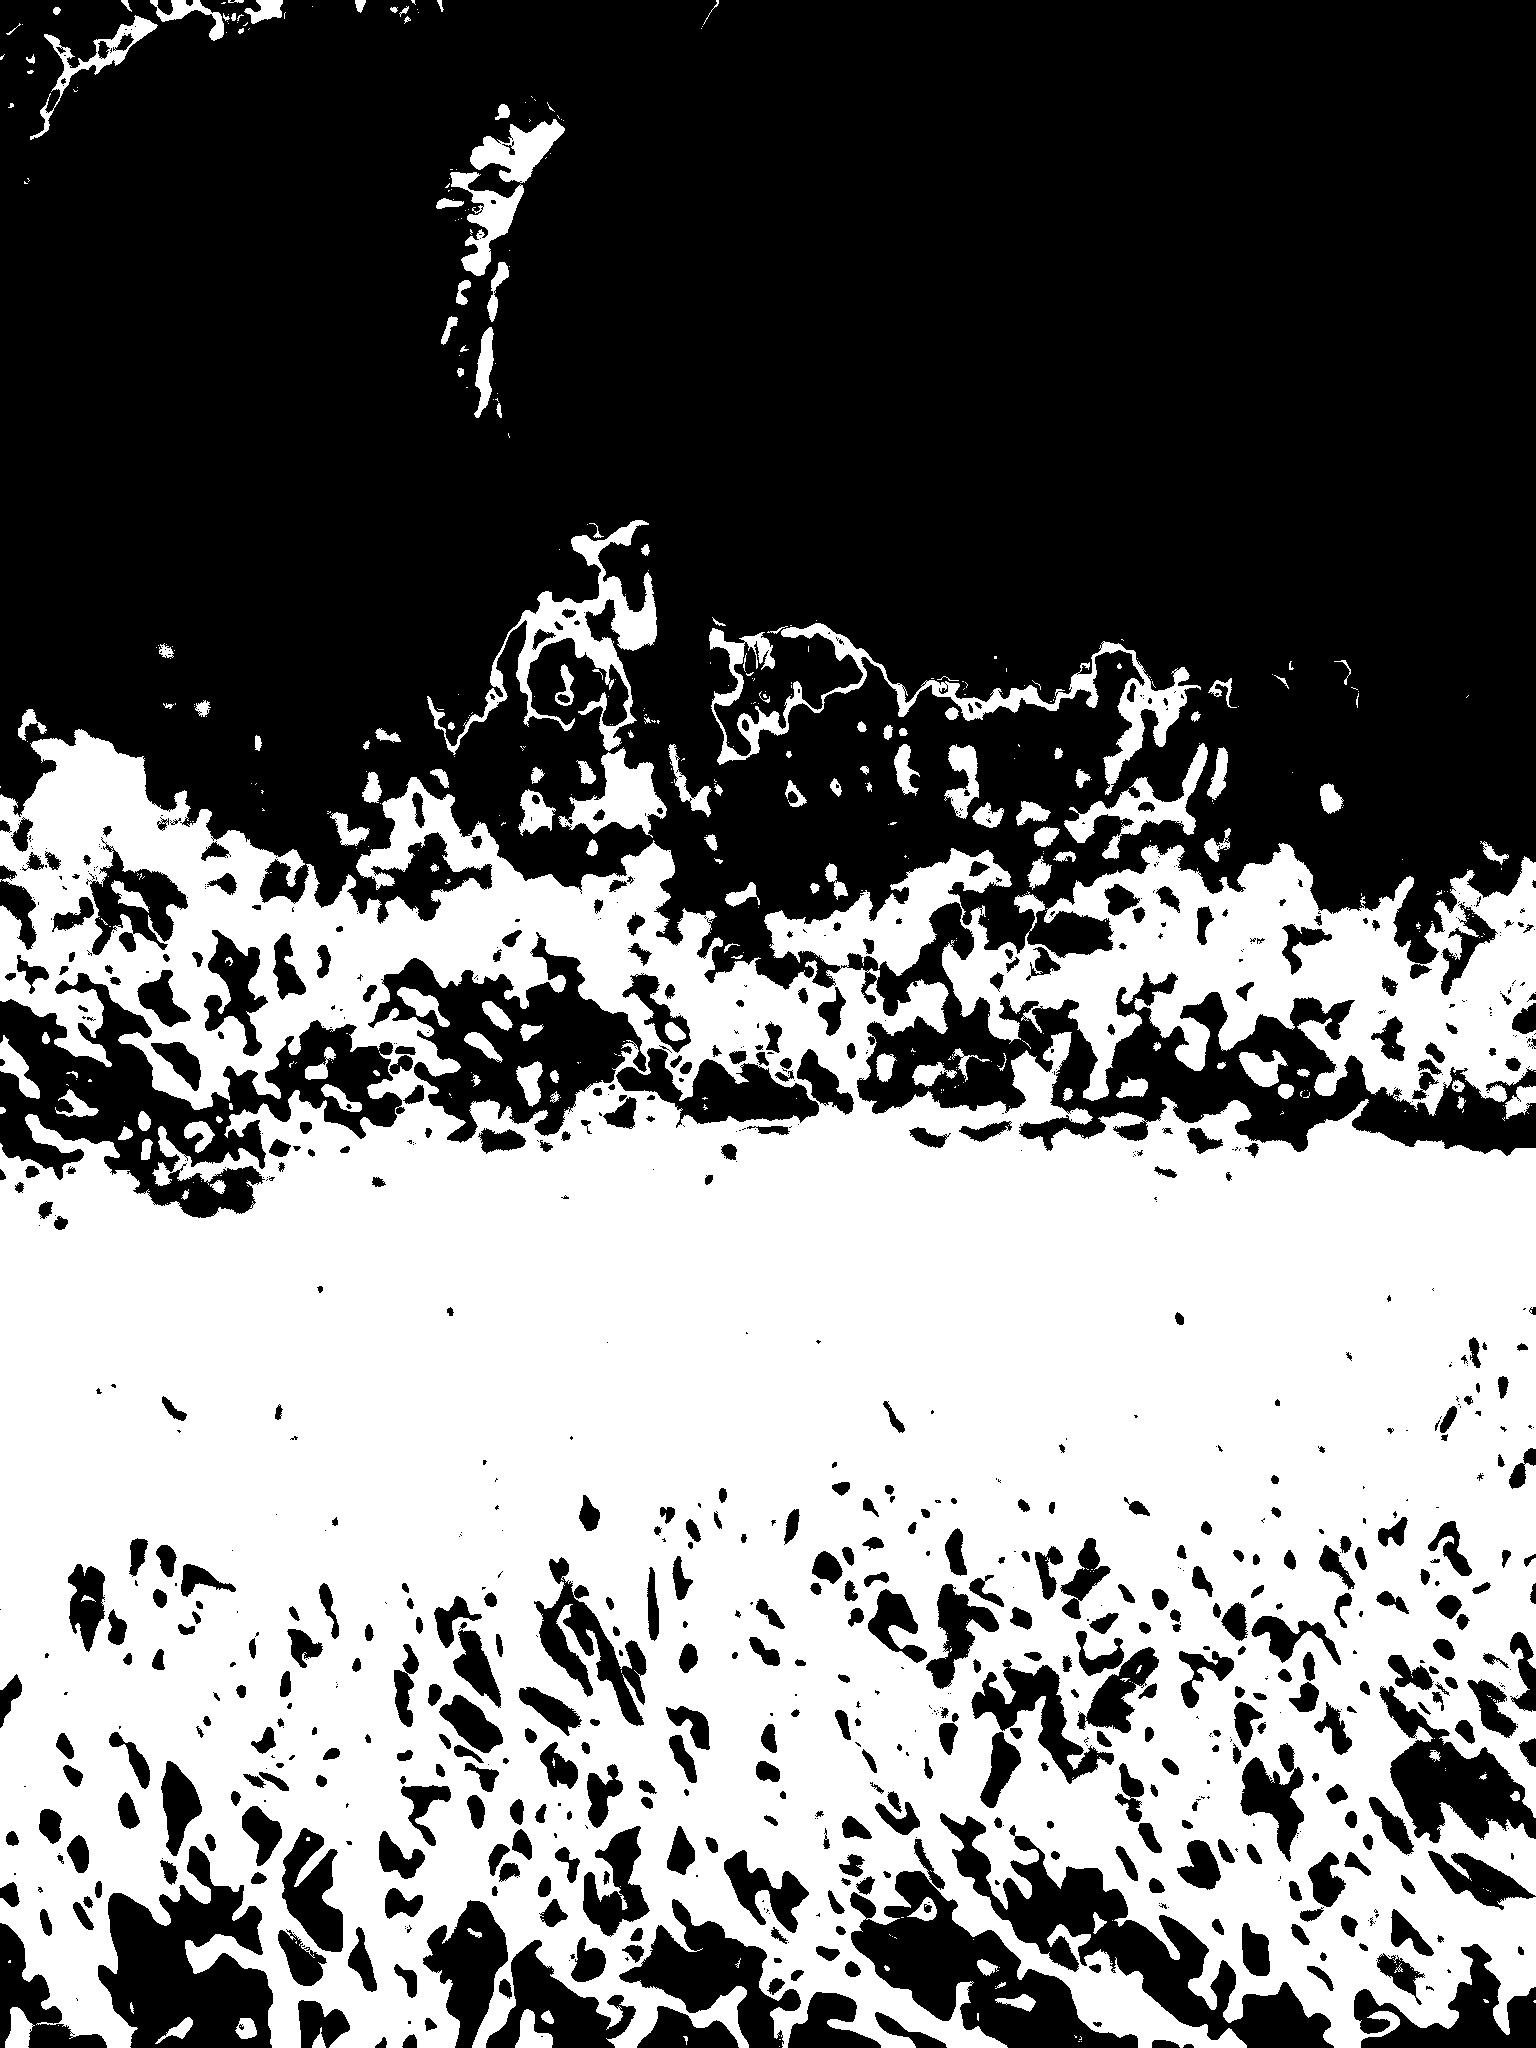
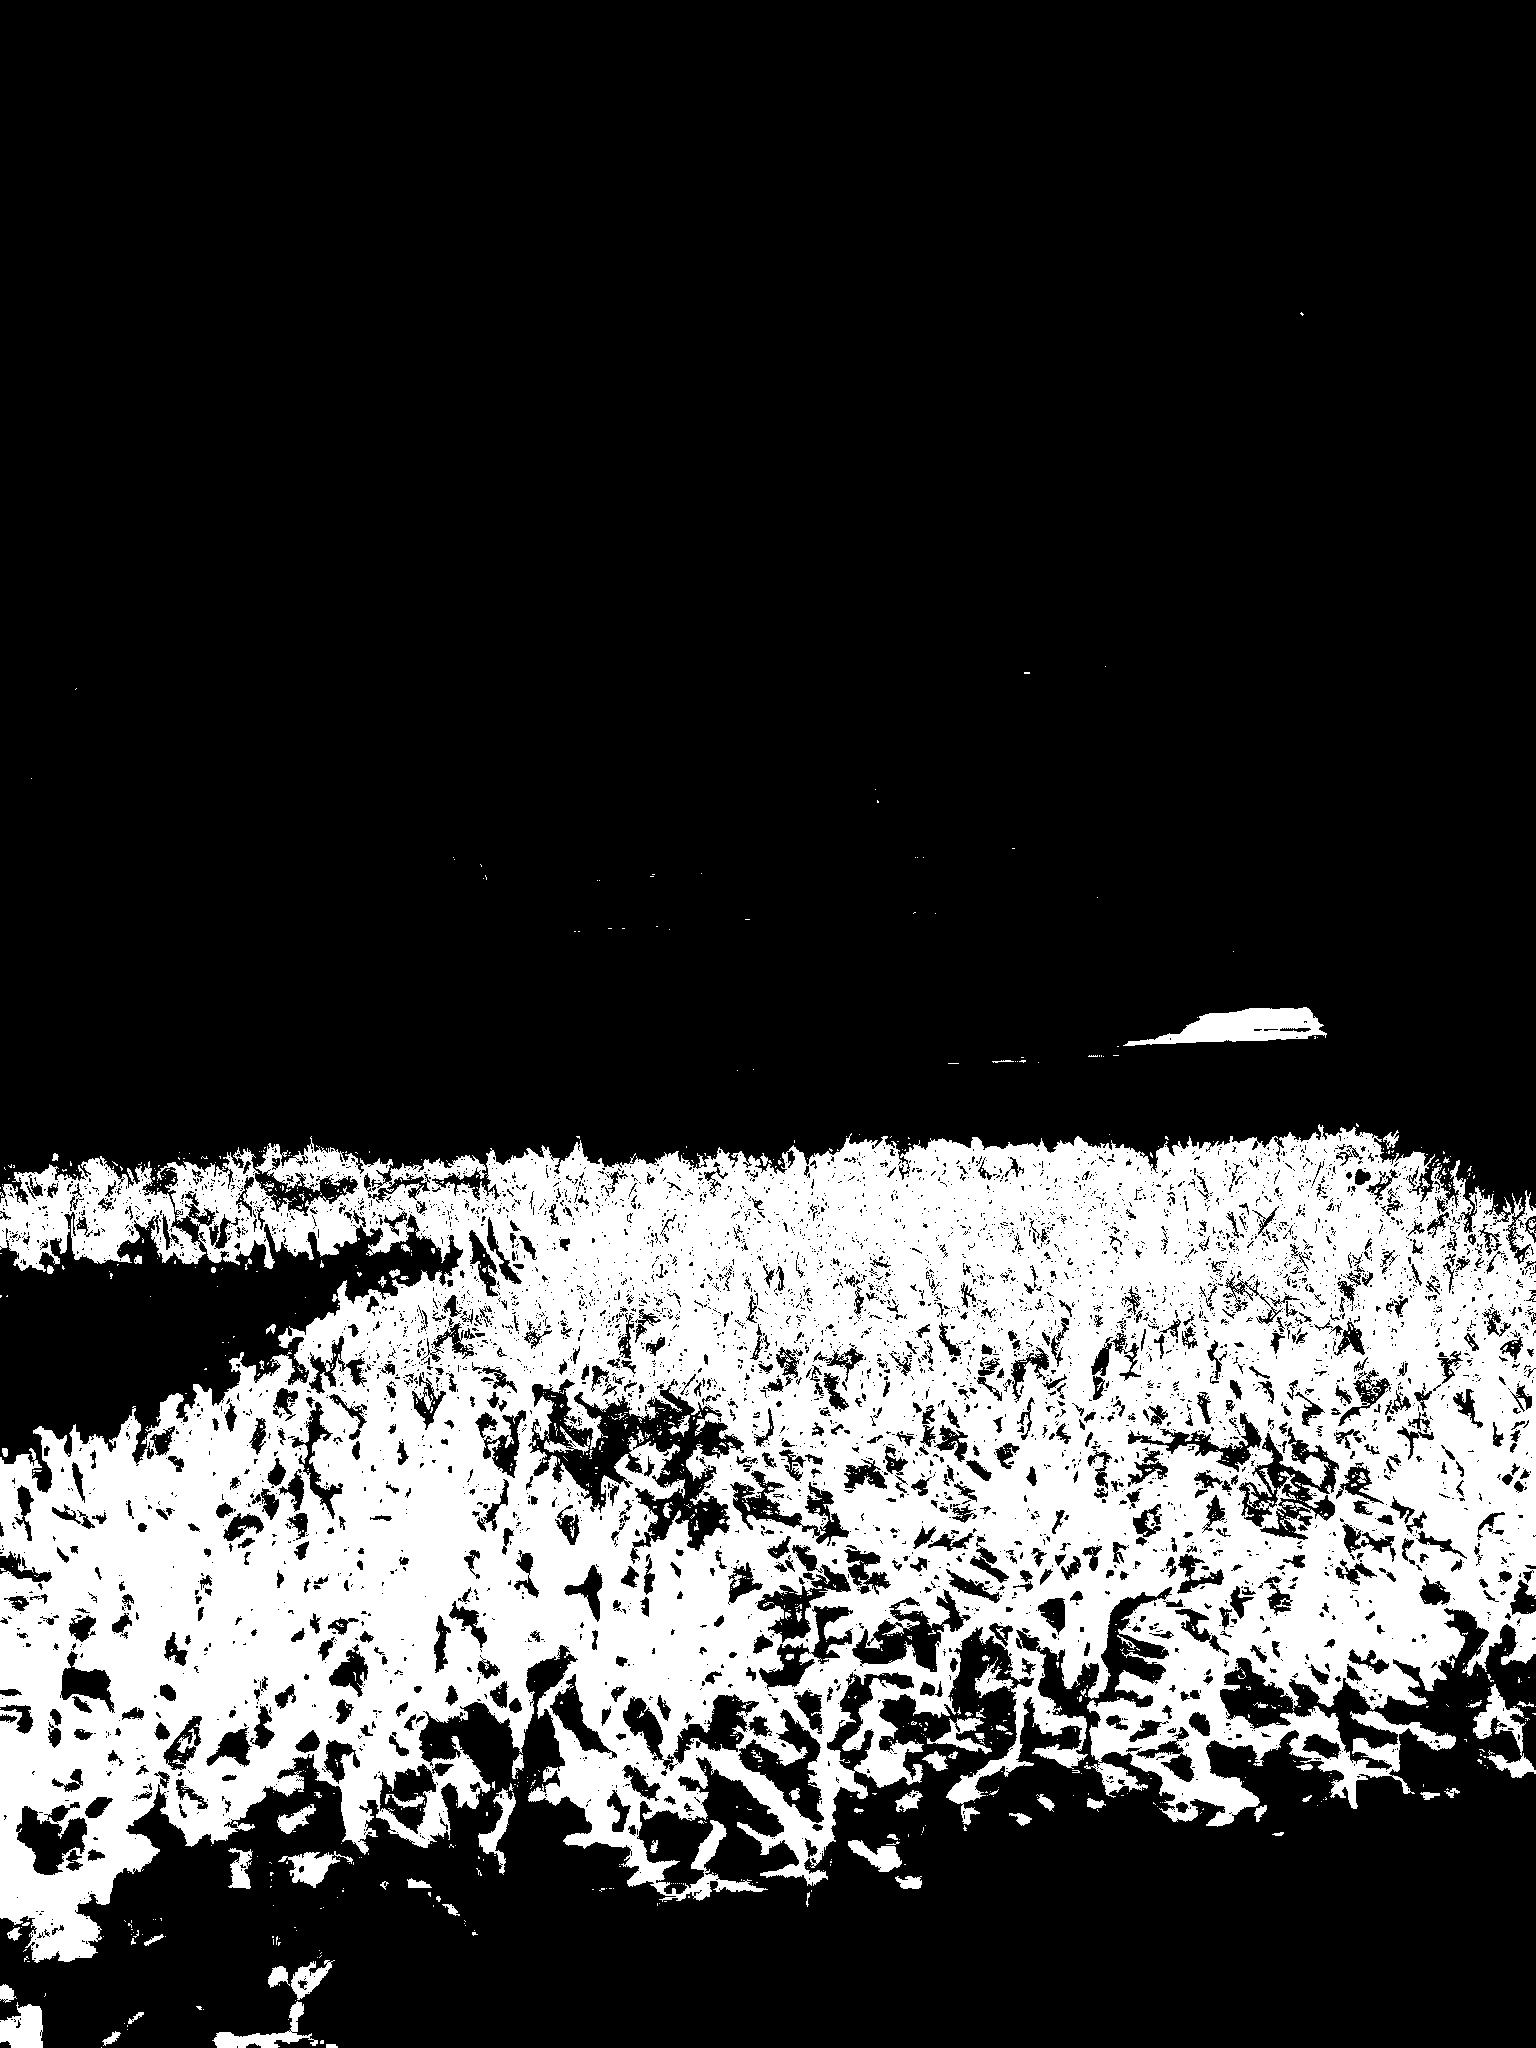
prot4

Changed region(s): [[0.0, 0.25, 1.0, 1.0], [0.2812, 0.0625, 0.375, 0.1875], [0.0312, 0.0, 0.1875, 0.0625]]

diff --git a/poc_prot4.py b/poc_prot4.py
@@ -6,6 +6,8 @@ import cv2
 import numpy as np
 import math
 
+buffer = 50
+
 # returns where the longest unmasked strip starts
 def longest(line, height):
     max_stretch = 0
@@ -97,16 +99,26 @@ def label_border(border, img):
     for point in border: cv2.circle(img, point, 30, (0, 255, 0), 3)
     return img
 
+# crops
+def crop(img, border, height):
+    avg = 0
+    for point in border: avg += point[1]
+    avg = int(avg / len(border))
+
+    min_y = max(0, avg - buffer)
+    max_y = min(height, avg + buffer)
+
+    return cv2.cvtColor(img[min_y:max_y, :], cv2.COLOR_BGR2GRAY) 
+
 # process each image
 def process_image(name):
     # load image
-    img = cv2.imread(f"assets/v1/{name}.JPEG")
+    img = cv2.imread(f"assets/v3/{name}.JPEG")
     height, width = img.shape[:2]
     center_x = width // 2
 
-    # gaussian blur and HSV color segments
-    img_blur = cv2.GaussianBlur(img, (21, 21), 0)
-    img_hsv = cv2.cvtColor(img_blur, cv2.COLOR_BGR2HSV)
+    # HSV color segments
+    img_hsv = cv2.cvtColor(img, cv2.COLOR_BGR2HSV)
 
     # create masks to detect green regions
     green_lower_bound = np.array([35, 40, 40])
@@ -120,45 +132,85 @@ def process_image(name):
     # label images
     img_marked = label_border(border, img.copy())
 
-    # canny edge detector
-    # img_edges = cv2.Canny(img_crop, threshold1=100, threshold2=400)
+    # crop image around border
+    img_crop = crop(img, border, height)
 
     # save images
     cv2.imwrite(f"output/{name}/1_mask.JPEG", img_mask)
     cv2.imwrite(f"output/{name}/2_marked.JPEG", img_marked)
+    cv2.imwrite(f"output/{name}/3_crop.JPEG", img_crop)
 
-    return img, border
+    return img_crop, border
 
-def crop(imgs, borders):
-    max_y = 0
-    min_y = float('inf')
-    for point in border:
-        if point[1] > max_y: max_y = point[1]
-        if point[1] < min_y: min_y = point[1]
+# remove outliers from disparity lists
+def remove_outliers(x_distances, y_distances):
+    q1 = np.percentile(x_distances, 25)
+    q3 = np.percentile(x_distances, 75)
+    iqr = q3 - q1
+    lower = q1 - 1.5 * iqr
+    upper = q3 + 1.5 * iqr
 
-    min_y = max(0, min_y - 100)
-    max_y = min(height, max_y + 100)
+    filtered = [(x, y) for x, y in zip(x_distances, y_distances) if lower <= x <= upper]
+    return zip(*filtered)
 
-    return cv2.cvtColor(img[min_y:max_y, :], cv2.COLOR_BGR2GRAY)
+# perform a block match between left and right images
+def calc_depth(left, right):
+    # SIFT feature detect
+    sift = cv2.SIFT_create()
+    kp1, des1 = sift.detectAndCompute(left, None)
+    kp2, des2 = sift.detectAndCompute(right, None)
+
+    # brute force matcher
+    bf = cv2.BFMatcher(cv2.NORM_L2, crossCheck=True)
+    matches = bf.match(des1, des2)
+    matches = sorted(matches, key=lambda x:x.distance)[:10]
+
+    # get x disparities and distance to midline
+    x_distances = []
+    y_distances = []
+    for m in matches:
+        left_kp = kp1[m.queryIdx]
+        right_kp = kp2[m.trainIdx]
+        disparity = left_kp.pt[0] - right_kp.pt[0]
+        if disparity > 0: 
+            x_distances.append(disparity)
+            y_distances.append(0.5 * (abs(right_kp.pt[1] - buffer) + abs(left_kp.pt[1] - buffer)))
+
+    # calculate weighted average: closest to midline gets 100% influence, others get 30% scaled by y_distance
+    x_distances, y_distances = remove_outliers(x_distances, y_distances)
+    min_y = min(y_distances)
+    if min_y == 0: weights = [1 if y == min_y else 0.3 * 1 / y for y in y_distances]
+    else:
+        weights = [min_y / y if y == min_y else 0.3 * min_y / y for y in y_distances]
+        weighted_sum = sum(x * weight for x, weight in zip(x_distances, weights))
+    weighted_avg = weighted_sum / sum(weights)
+
+    # vars
+    baseline = 30.48
+    focal_len = 15294
+    # focal length = 26mm. pixel size = 1.7um
+
+    # calculate depth
+    if weighted_avg > 1:
+        depth = (focal_len * baseline) / weighted_avg
+        print(f"Distance to boundary: {depth:.2f} cm")
+    else:
+        print("Disparity is too small to calculate depth.")
+
+    # save image
+    img_matches = cv2.drawMatches(left, kp1, right, kp2, matches, None, flags=2)
+    cv2.imwrite(f"output/match.JPEG", img_matches)
+
+    return depth
 
 # task flow
 def process_imgs():
+    # get edge detection around detected border
     left, left_border = process_image("left")
     right, right_border = process_image("right")
 
-    crop((left, right), (left_border, right_border))
+    # calculate disparity and depth
+    calc_depth(left, right)
 
 if __name__ == "__main__":
     process_imgs()
-
-
-# IDEA 1
-# use dp solution to get an approximate border
-# crop left and right images around the border
-# canny edge detect on the cropped images
-# either use ORB and match/anchor or train a model to find disparity
-
-# IDEA 2
-# train a model to classify grass
-# walk up images to find border using model
-# ====
